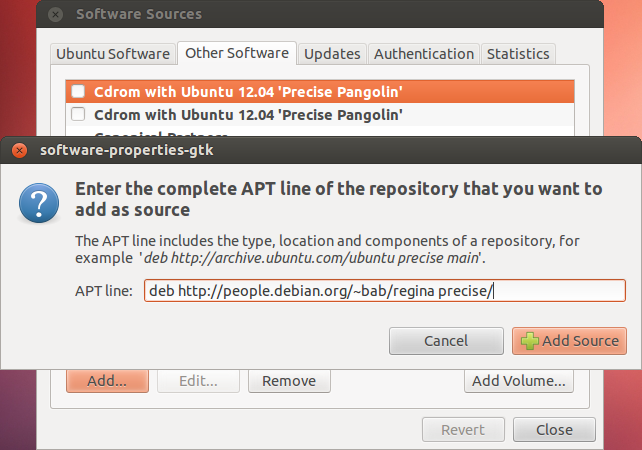
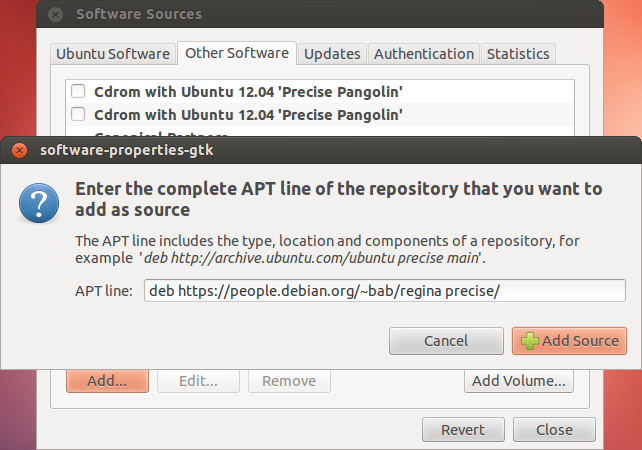
Final tweaks to ubuntu packaging instructions.

diff --git a/www/install/debian-wheezy.html b/www/install/debian-wheezy.html
@@ -61,6 +61,12 @@ Update the list of available packages.  At a command prompt, type:
 <div class="example"><p>
 <tt>sudo apt-get update</tt>
 </p></div>
+<p>
+If you see an error like <i>&ldquo;The method driver
+/usr/lib/apt/methods/https could not be found&rdquo;</i>,
+it is because your system does not yet know how to handle HTTPS repositories.
+Install the package <tt>apt-transport-https</tt> and try again.
+</p>
 </li>
 <li>
 <p>
